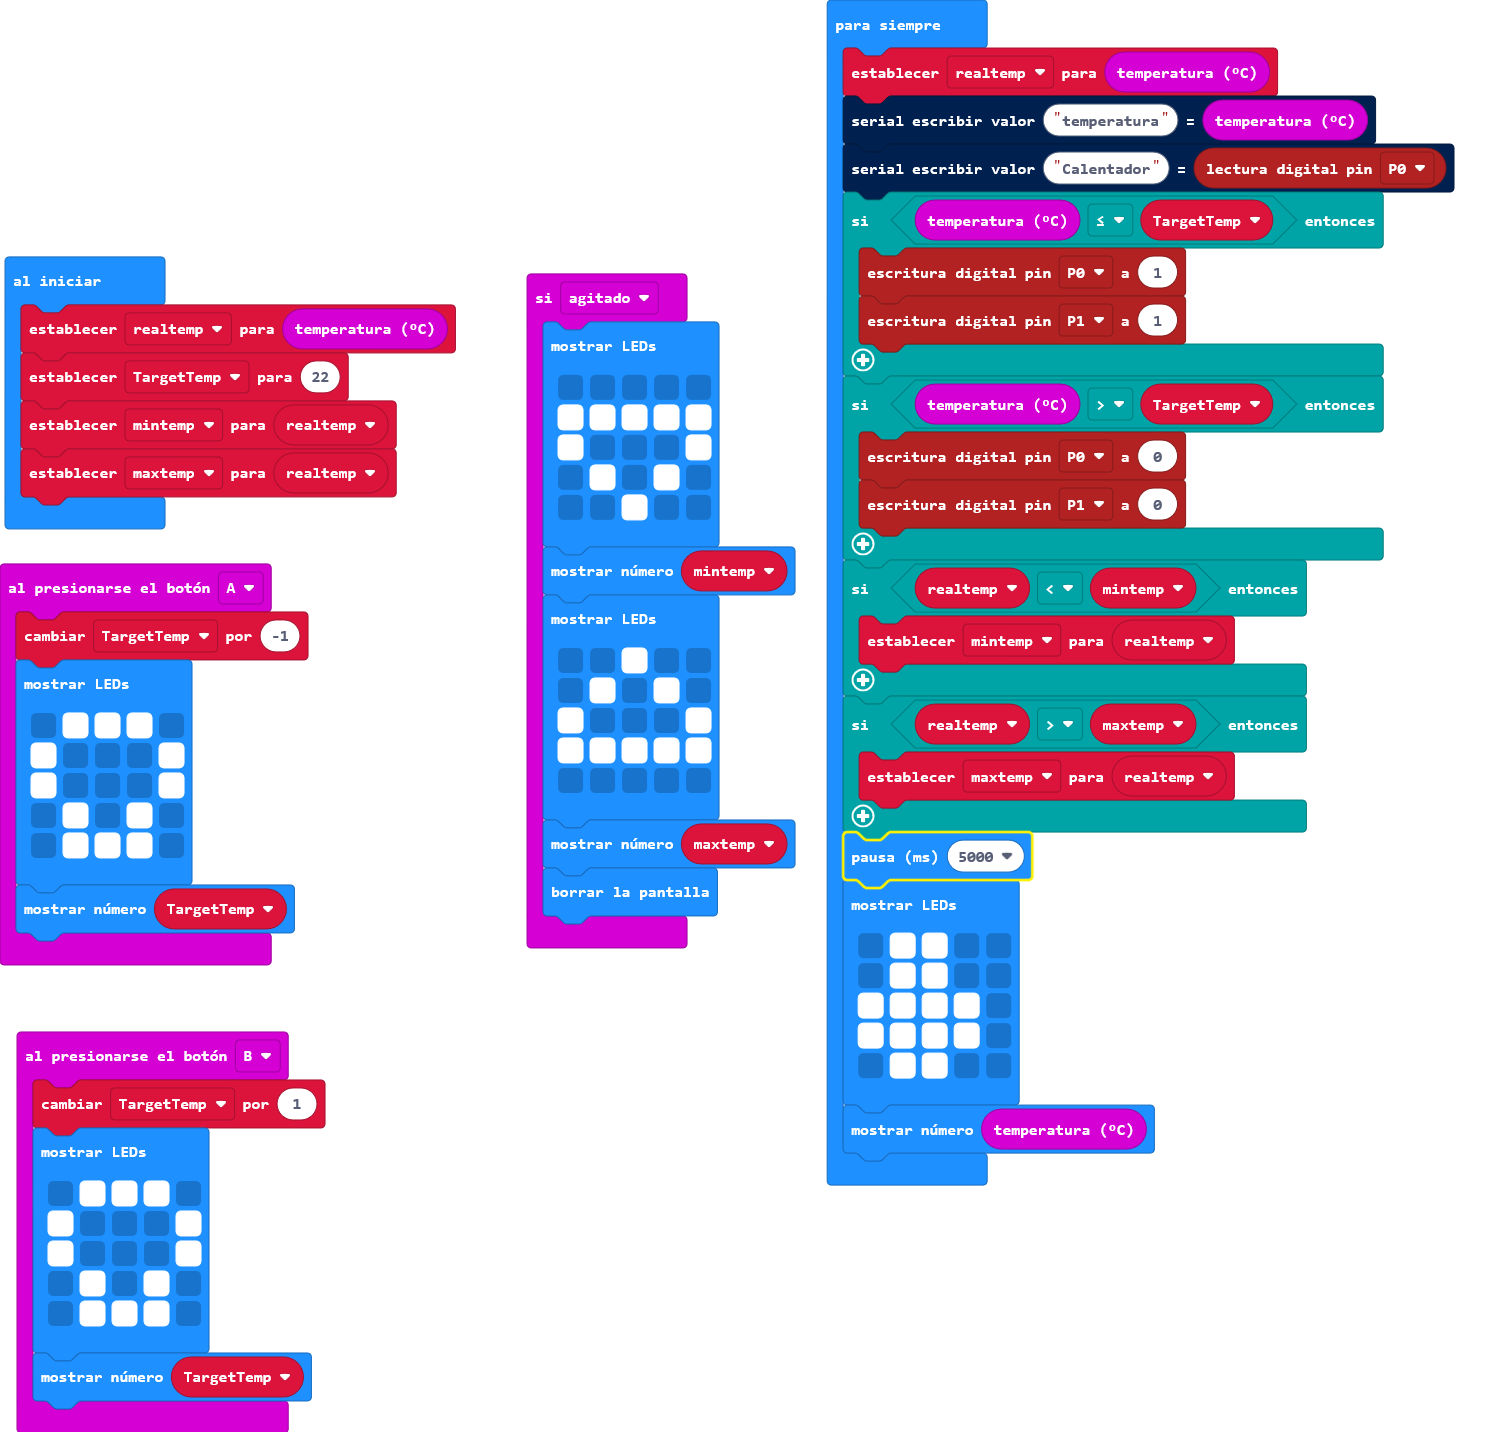
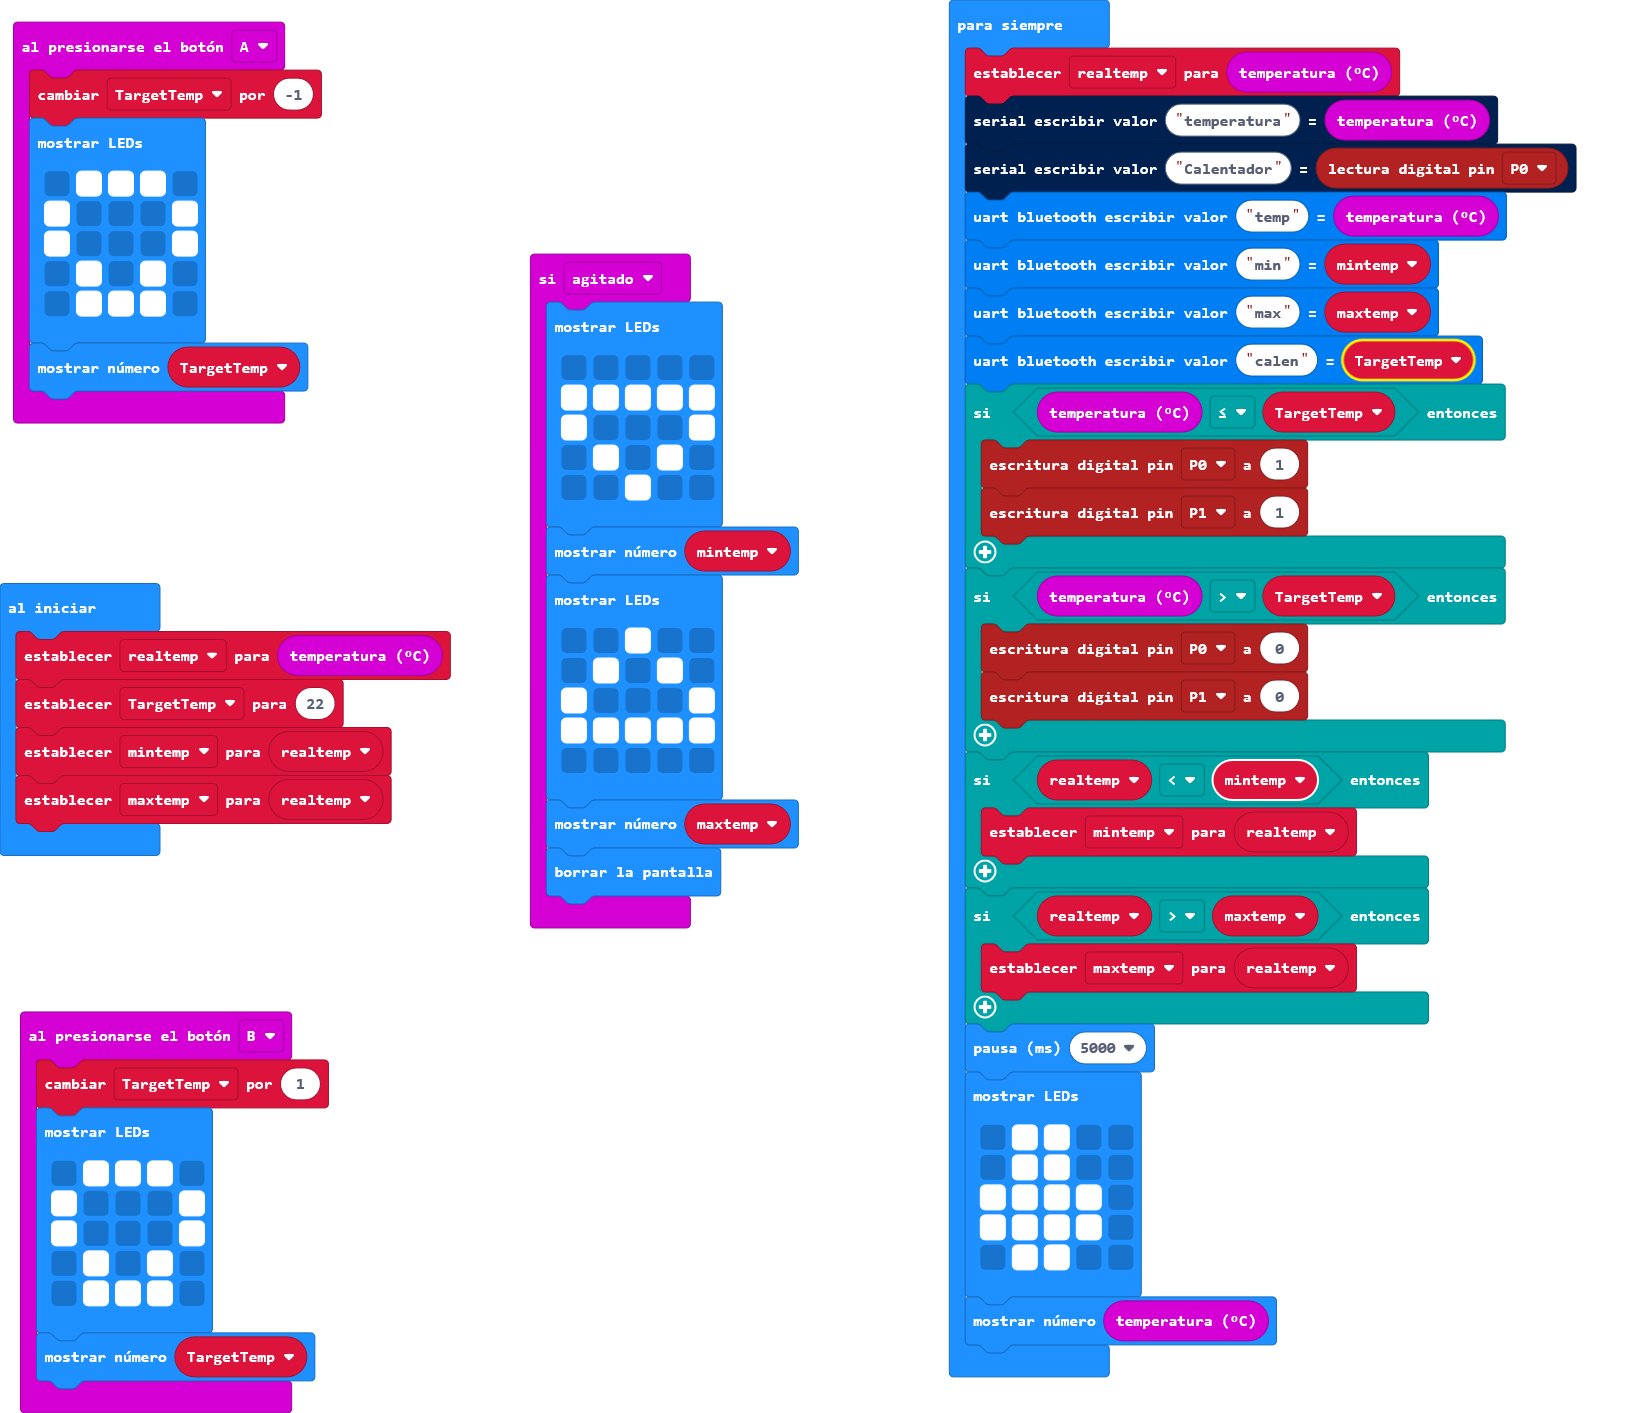
Actualizar pxt.json, main.blocks, main.ts

diff --git a/main.ts b/main.ts
@@ -1,5 +1,4 @@
-input.onButtonPressed(Button.A, function on_button_pressed_a() {
-    
+input.onButtonPressed(Button.A, function () {
     TargetTemp += -1
     basic.showLeds(`
         . # # # .
@@ -10,7 +9,7 @@ input.onButtonPressed(Button.A, function on_button_pressed_a() {
         `)
     basic.showNumber(TargetTemp)
 })
-input.onGesture(Gesture.Shake, function on_gesture_shake() {
+input.onGesture(Gesture.Shake, function () {
     basic.showLeds(`
         . . . . .
         # # # # #
@@ -29,8 +28,7 @@ input.onGesture(Gesture.Shake, function on_gesture_shake() {
     basic.showNumber(maxtemp)
     basic.clearScreen()
 })
-input.onButtonPressed(Button.B, function on_button_pressed_b() {
-    
+input.onButtonPressed(Button.B, function () {
     TargetTemp += 1
     basic.showLeds(`
         . # # # .
@@ -48,29 +46,28 @@ let realtemp = input.temperature()
 TargetTemp = 22
 mintemp = realtemp
 maxtemp = realtemp
-basic.forever(function on_forever() {
-    
+basic.forever(function () {
     realtemp = input.temperature()
     serial.writeValue("temperatura", input.temperature())
     serial.writeValue("Calentador", pins.digitalReadPin(DigitalPin.P0))
+    bluetooth.uartWriteValue("temp", input.temperature())
+    bluetooth.uartWriteValue("min", mintemp)
+    bluetooth.uartWriteValue("max", maxtemp)
+    bluetooth.uartWriteValue("calen", TargetTemp)
     if (input.temperature() <= TargetTemp) {
         pins.digitalWritePin(DigitalPin.P0, 1)
         pins.digitalWritePin(DigitalPin.P1, 1)
     }
-    
     if (input.temperature() > TargetTemp) {
         pins.digitalWritePin(DigitalPin.P0, 0)
         pins.digitalWritePin(DigitalPin.P1, 0)
     }
-    
     if (realtemp < mintemp) {
         mintemp = realtemp
     }
-    
     if (realtemp > maxtemp) {
         maxtemp = realtemp
     }
-    
     basic.pause(5000)
     basic.showLeds(`
         . # # . .
